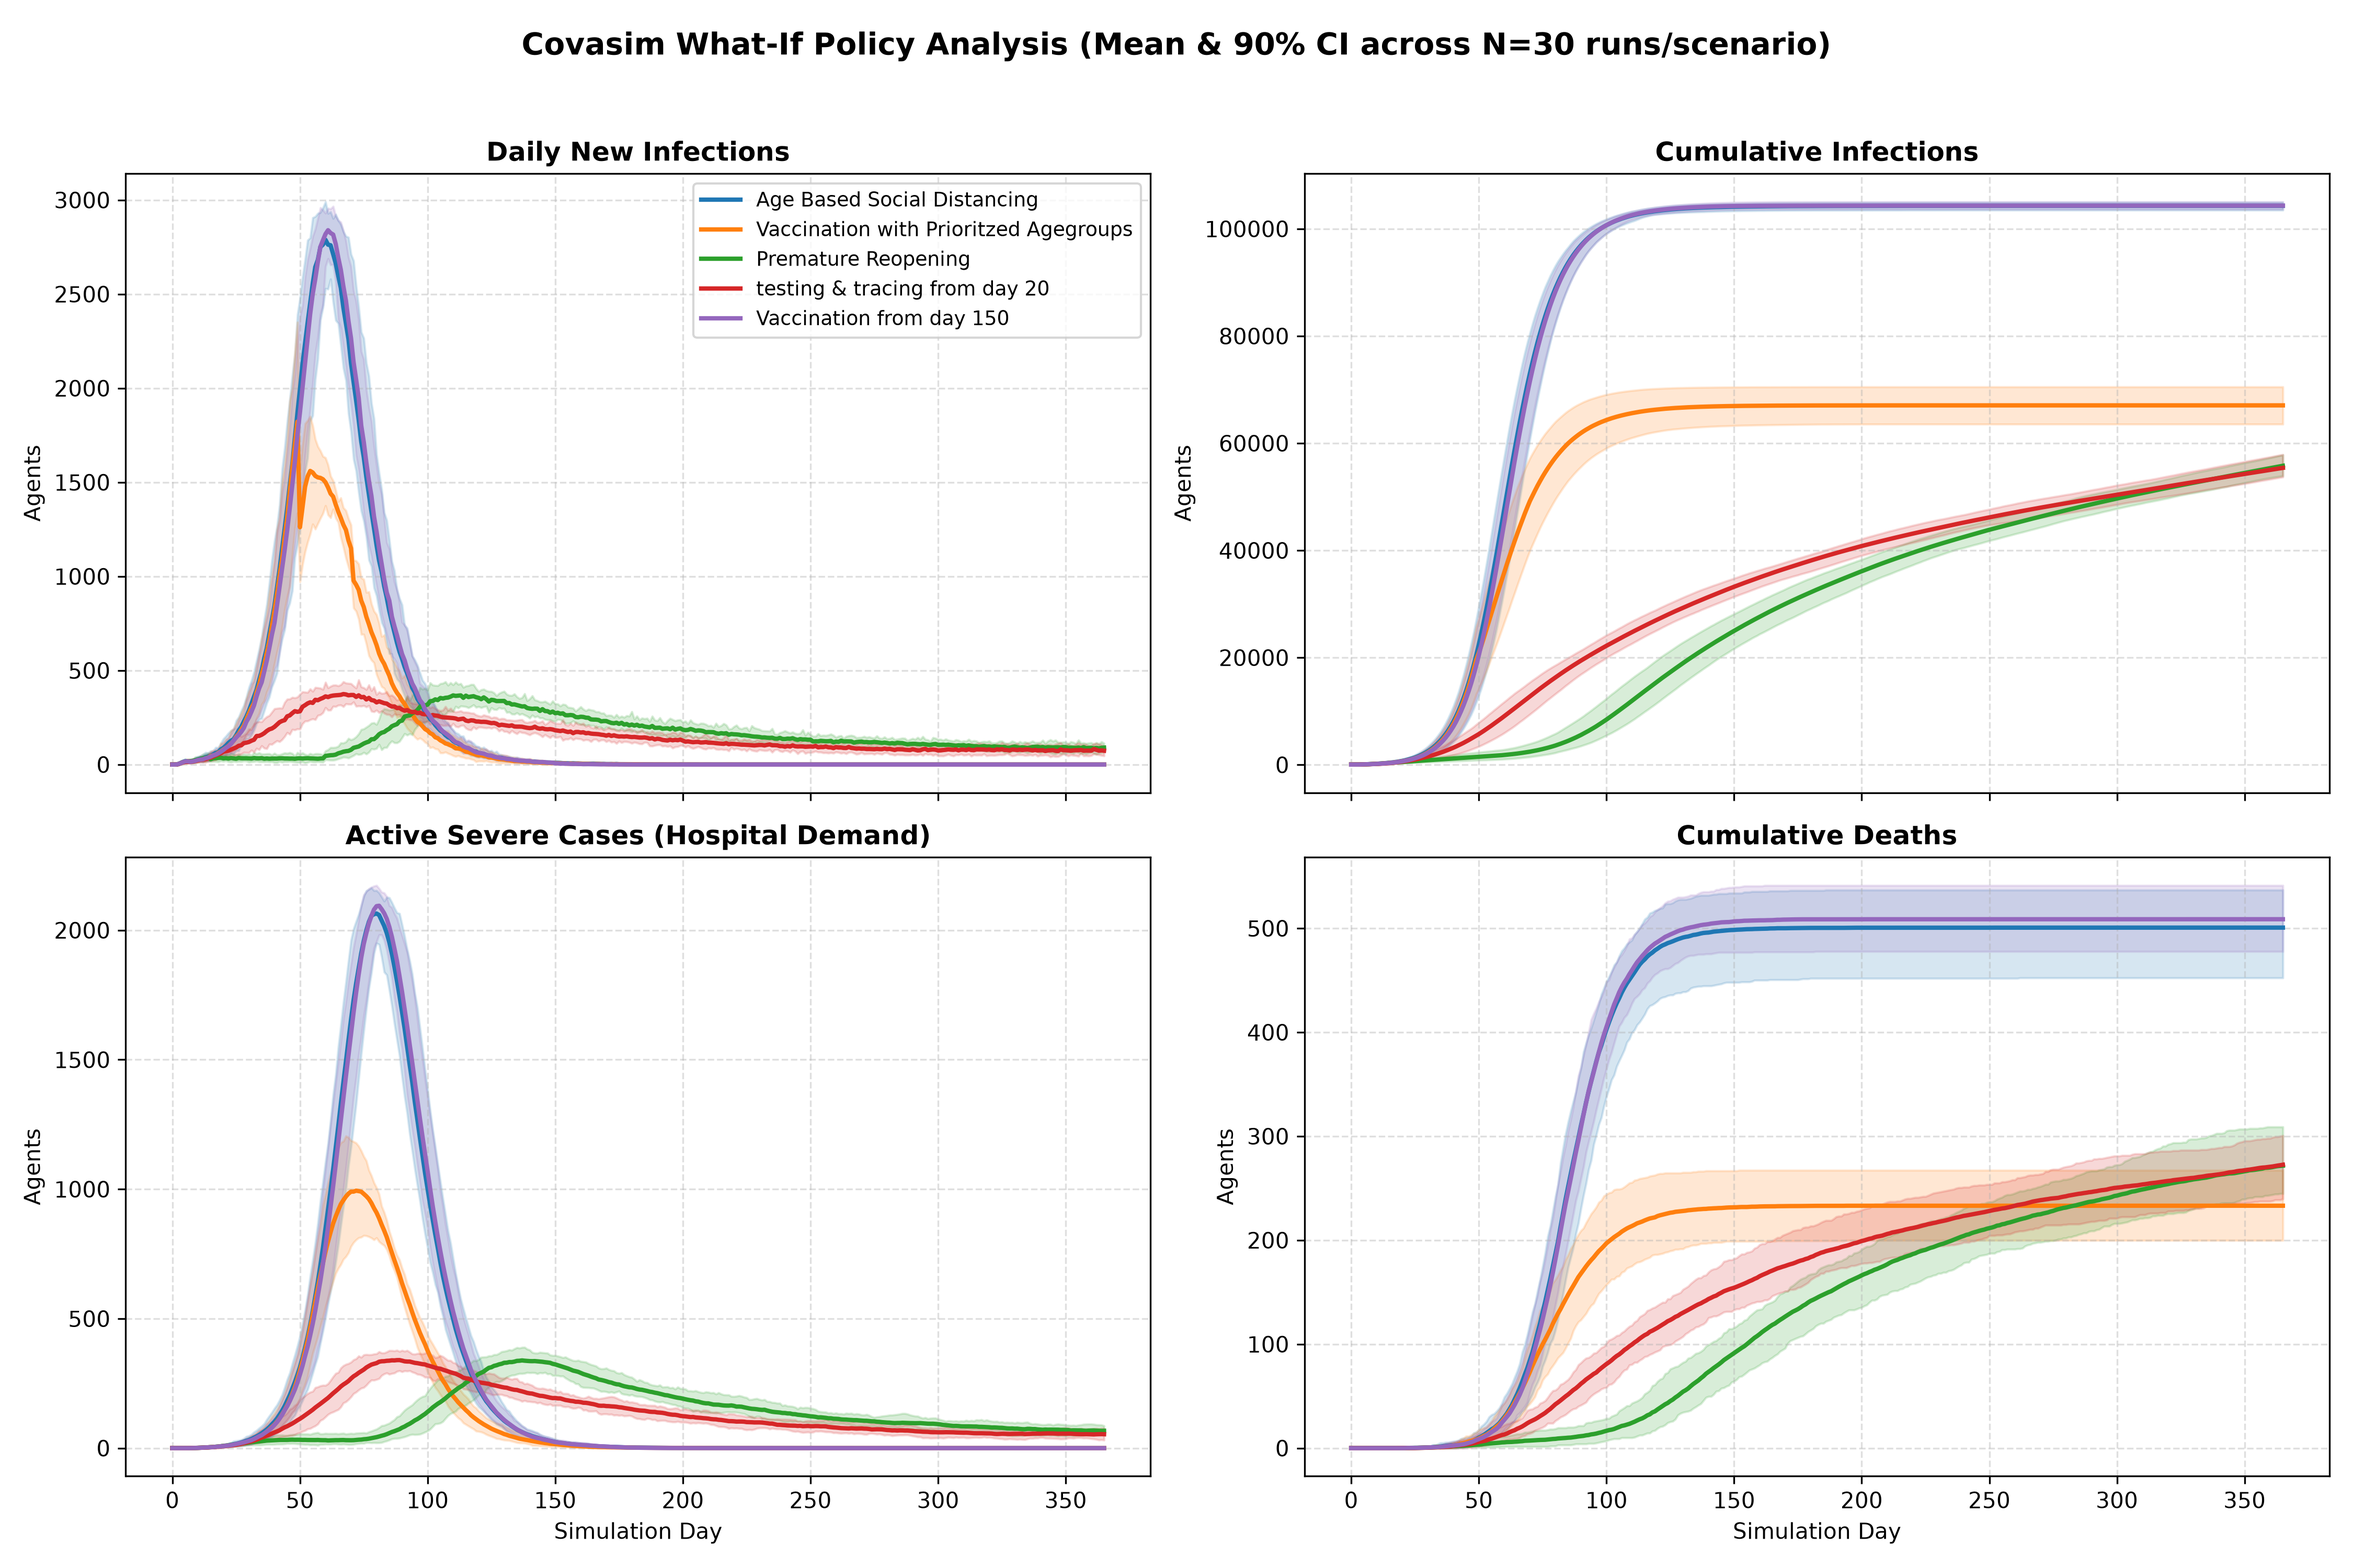
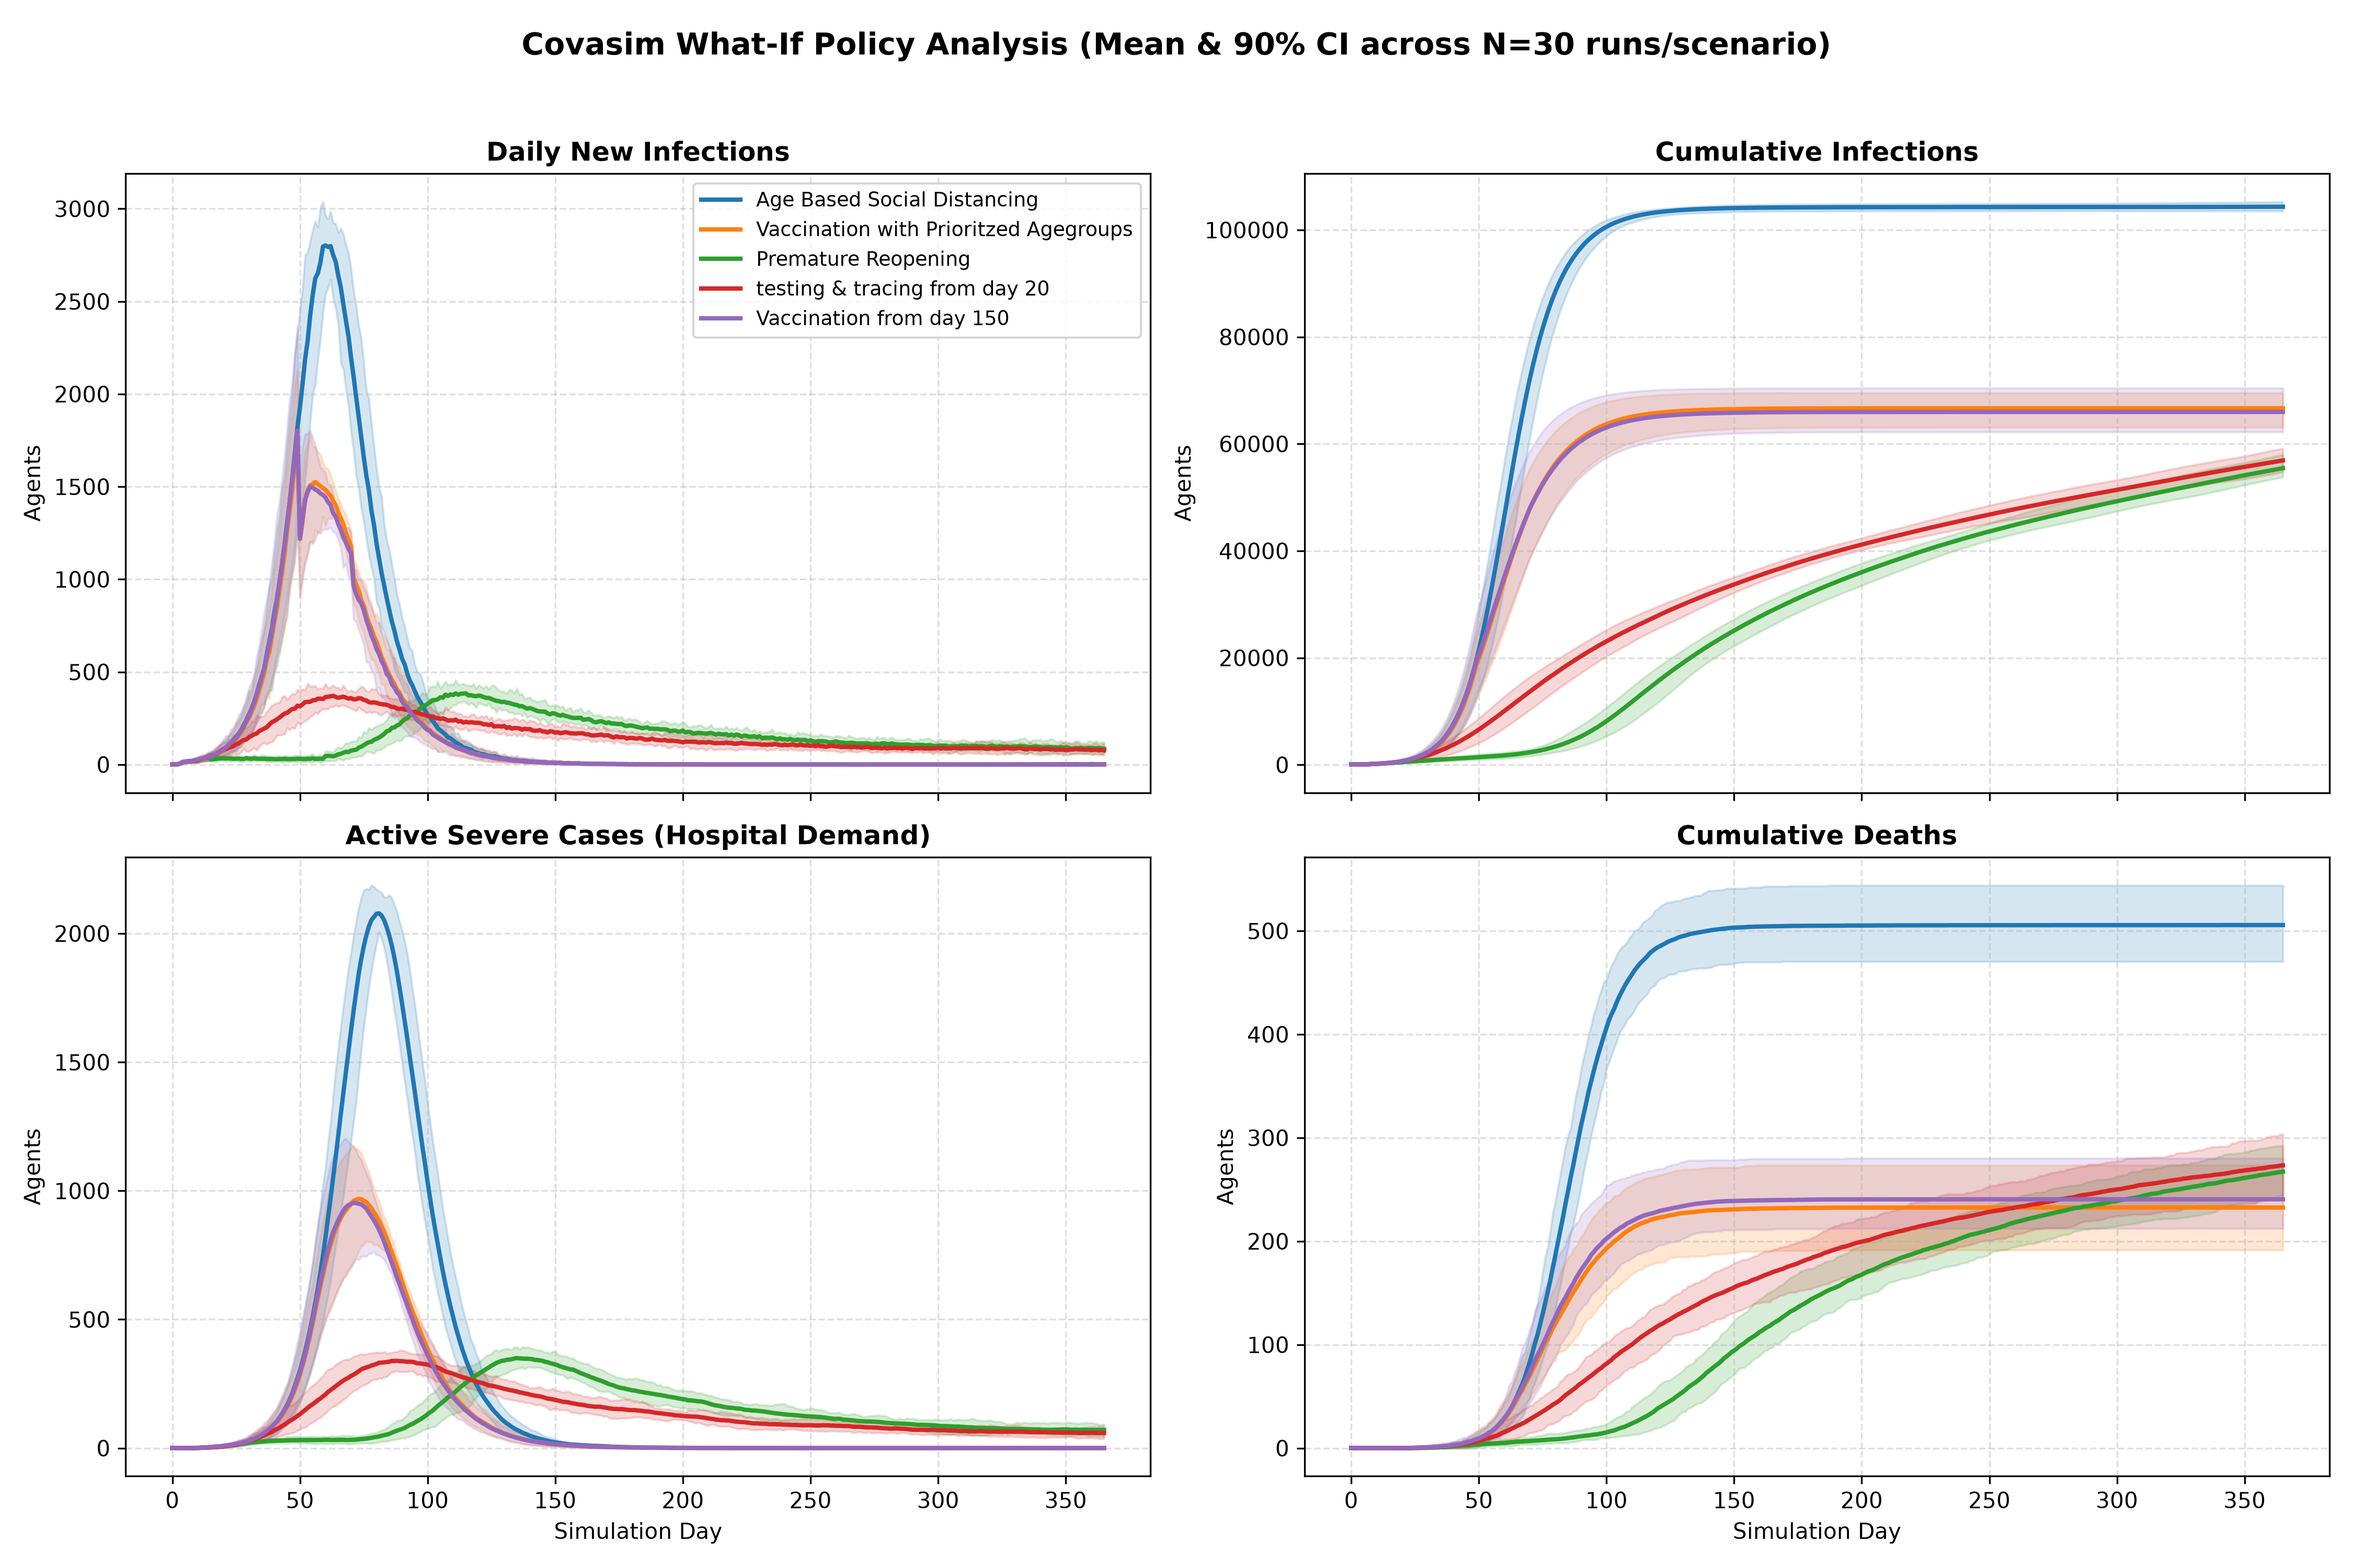
days for scen5 changed

diff --git a/M2/scenarios.py b/M2/scenarios.py
@@ -104,7 +104,7 @@ AGE_BASED_SOCIAL_DISTANCING = age_based_edge_clipping(
     end_day='2021-03-01',
 )
 
-VACCINATION = cv.simple_vaccine(days=[150, 171], prob=0.75, rel_sus=0.5, rel_symp=0.5)
+VACCINATION = cv.simple_vaccine(days=[50, 71], prob=0.75, rel_sus=0.5, rel_symp=0.5)
 
 PREMATURE_OPENING = [
     cv.change_beta(days=[15, 60], changes=[0.5, 1.0], layers='s'),
